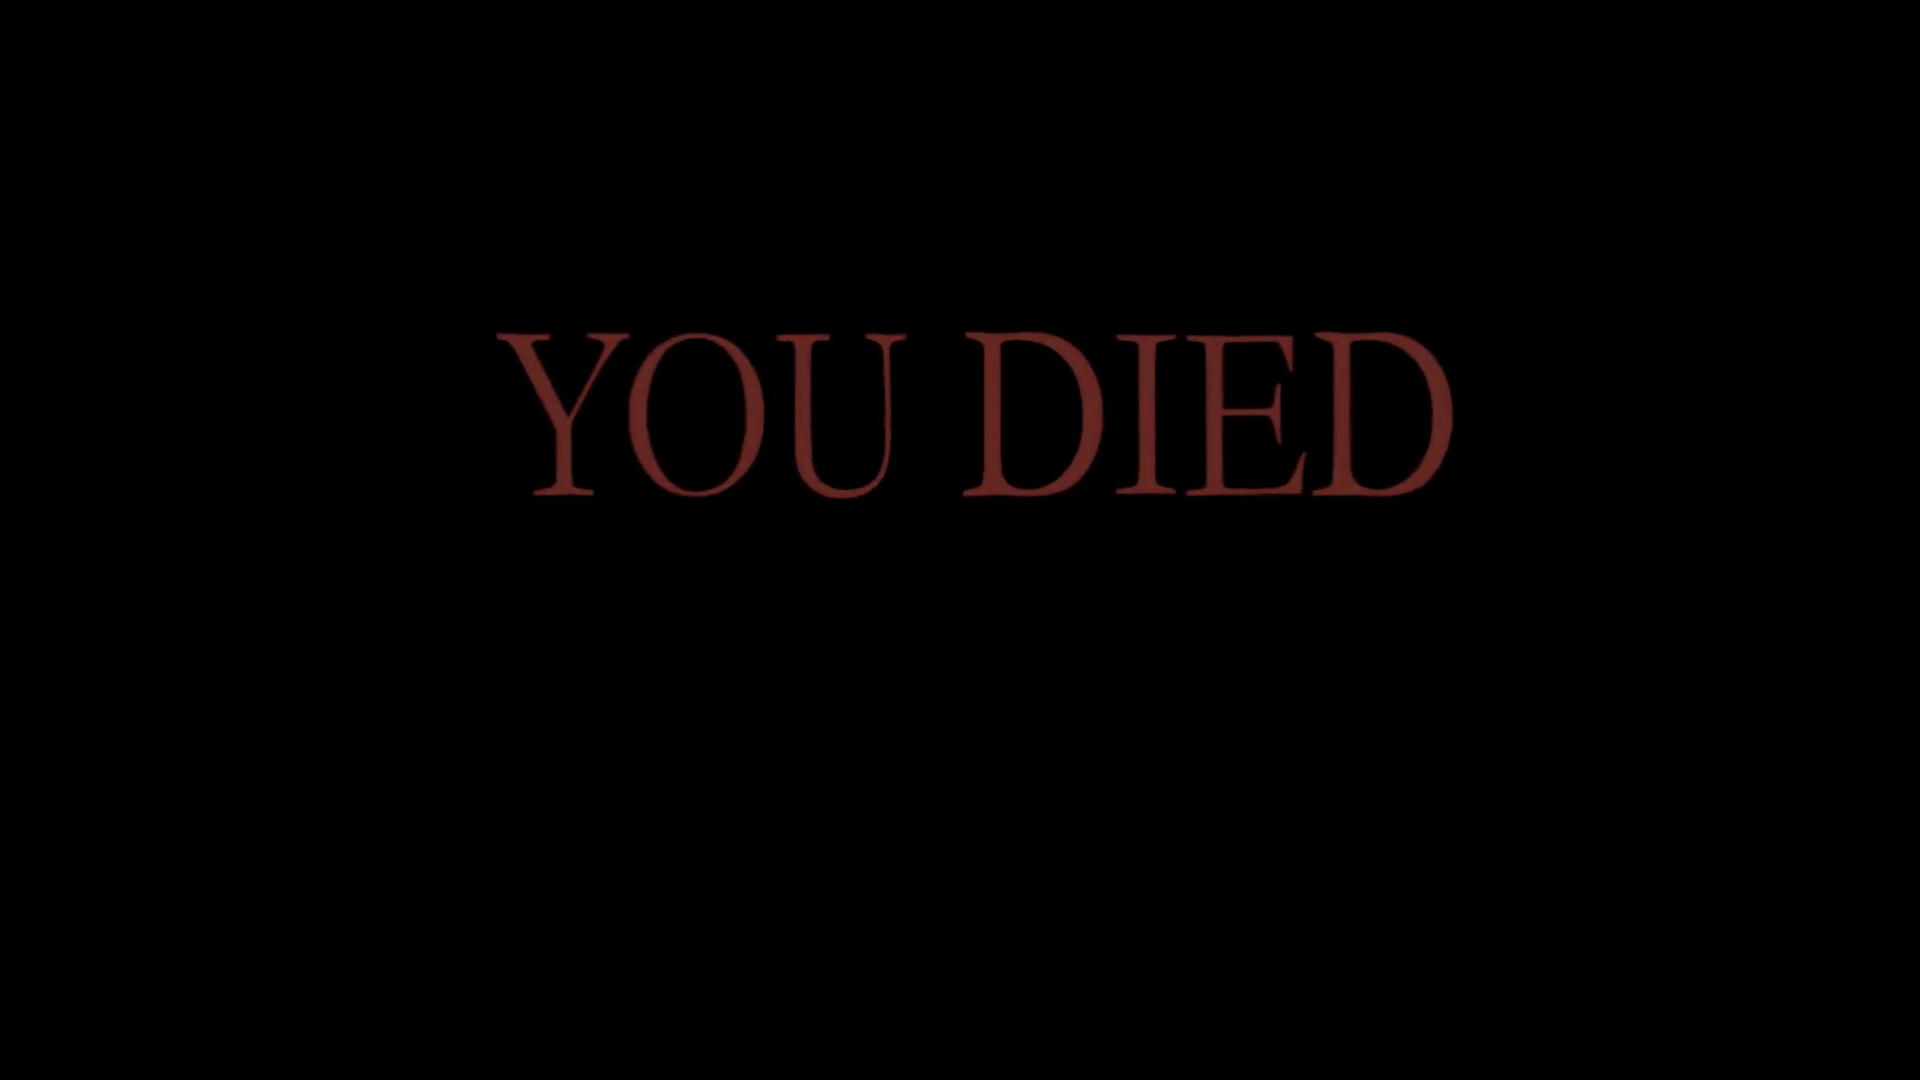
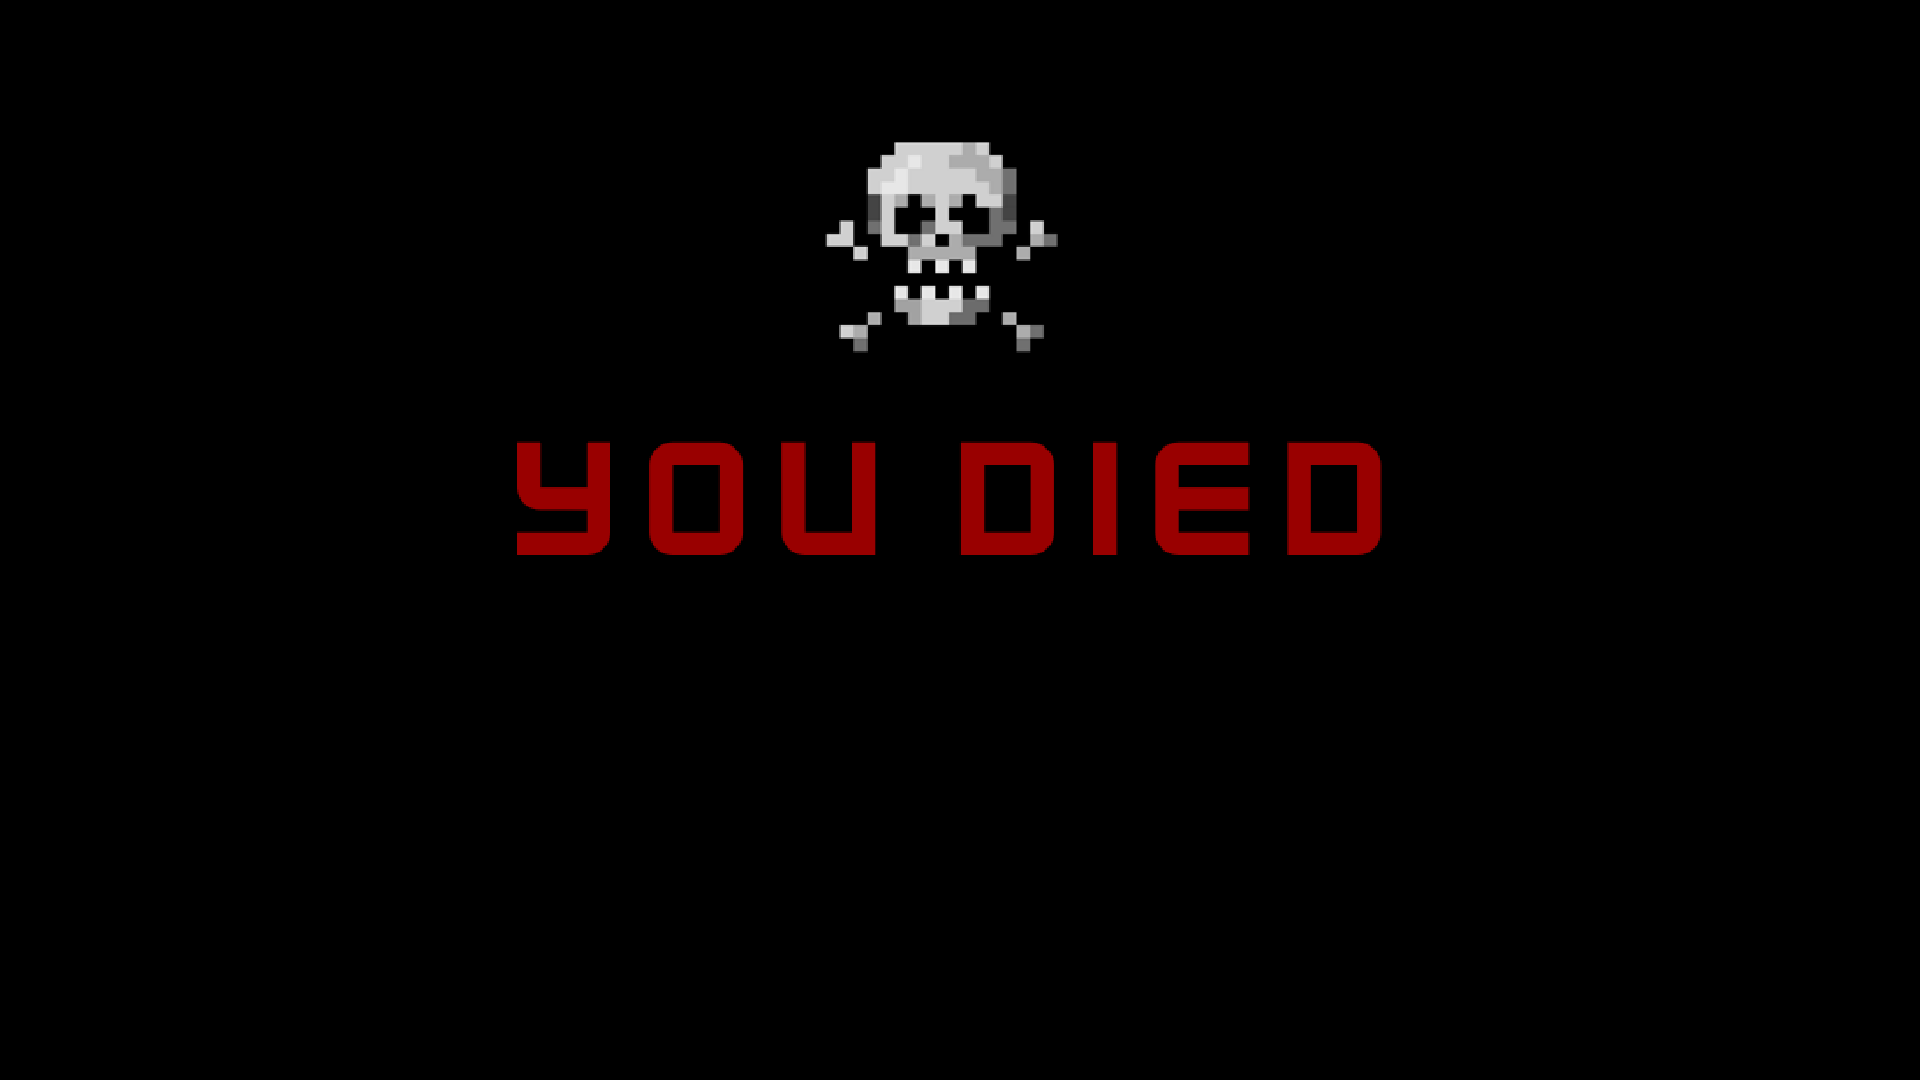
Added javdocs to new player death classes, fixed spelling issues and created new player death screen

Changed region(s): [[0.25, 0.1222, 0.7812, 0.5194]]

diff --git a/source/core/src/main/com/csse3200/game/components/player/DeathScreenDisplay.java b/source/core/src/main/com/csse3200/game/components/player/DeathScreenDisplay.java
@@ -1,7 +1,6 @@
 /**
- * MainMenuDisplay is a UI component responsible for displaying the main menu of the game.
- * It provides buttons for starting the game, loading a saved game, accessing settings,
- * and exiting the game. Additionally, it offers options to access space and extractor mini-games.
+ * DeathScreenDisplay is a UI component responsible for displaying the death screen of the game.
+ * It provides buttons for restarting the game and exiting the game.
  */
 package com.csse3200.game.components.player;
 
@@ -19,9 +18,8 @@ import org.slf4j.Logger;
 import org.slf4j.LoggerFactory;
 
 /**
- * The UI component responsible for rendering and managing the main menu interface.
- * It provides options for starting, loading, configuring settings, and exiting the game.
- * It also includes options to access space and extractor mini-games.
+ * The UI component responsible for rendering and managing the death screen interface.
+ * It provides options for restarting and exiting the game.
  */
 public class DeathScreenDisplay extends UIComponent {
 
@@ -37,7 +35,7 @@ public class DeathScreenDisplay extends UIComponent {
     }
 
     /**
-     * Adds UI elements such as buttons and title to the main menu display.
+     * Adds UI elements such as buttons and title to the death screen display.
      */
     private void addActors() {
         tableImage = new Table();
@@ -52,7 +50,7 @@ public class DeathScreenDisplay extends UIComponent {
         titleImage.setHeight(Gdx.graphics.getHeight());
         titleImage.setPosition(0, 0);
 
-        // Create button for exit options
+        // Create buttons for restart and exit options
         TextButton exitBtn = new TextButton("Exit to Main Menu", skin);
         TextButton restartBtn = new TextButton("Restart Level", skin);
 
@@ -75,7 +73,7 @@ public class DeathScreenDisplay extends UIComponent {
 
         // Arrange UI elements in a table layout
         tableImage.add(titleImage);
-        tableButtons.add(restartBtn).padBottom(100f);
+        tableButtons.add(restartBtn).padBottom(50f);
         tableButtons.row();
         tableButtons.add(exitBtn).padBottom(300f);
 

diff --git a/source/core/src/main/com/csse3200/game/screens/PlayerDeathScreen.java b/source/core/src/main/com/csse3200/game/screens/PlayerDeathScreen.java
@@ -17,10 +17,8 @@ import com.csse3200.game.services.ServiceLocator;
 import org.slf4j.Logger;
 import org.slf4j.LoggerFactory;
 
-import static com.csse3200.game.ui.UIComponent.skin;
-
 /**
- * The game screen containing the main menu.
+ * The game screen indicating a player's death and options to either restart or exit game.
  */
 public class PlayerDeathScreen extends ScreenAdapter {
     public static final Logger logger = LoggerFactory.getLogger(PlayerDeathScreen.class);
@@ -31,7 +29,7 @@ public class PlayerDeathScreen extends ScreenAdapter {
     public PlayerDeathScreen(GdxGame game) {
         this.game = game;
 
-        logger.debug("Initialising main menu screen services");
+        logger.debug("Initialising death screen services");
         ServiceLocator.registerInputService(new InputService());
         ServiceLocator.registerResourceService(new ResourceService());
         ServiceLocator.registerEntityService(new EntityService());
@@ -67,7 +65,7 @@ public class PlayerDeathScreen extends ScreenAdapter {
 
     @Override
     public void dispose() {
-        logger.debug("Disposing main menu screen");
+        logger.debug("Disposing death screen");
 
         renderer.dispose();
         unloadAssets();
@@ -91,7 +89,7 @@ public class PlayerDeathScreen extends ScreenAdapter {
     }
 
     /**
-     * Creates the main menu's ui including components for rendering ui elements to the screen and
+     * Creates the death screen's ui including components for rendering ui elements to the screen and
      * capturing and handling ui input.
      */
     private void createUI() {

diff --git a/source/core/src/main/com/csse3200/game/components/player/PlayerActions.java b/source/core/src/main/com/csse3200/game/components/player/PlayerActions.java
@@ -106,19 +106,19 @@ public class PlayerActions extends Component {
         System.out.println("here");
         switch (i) {
             case 1:
-                entity.getComponent(InventoryComponent.class).setEquiped(1);
+                entity.getComponent(InventoryComponent.class).setEquipped(1);
                 break;
             case 2:
-                entity.getComponent(InventoryComponent.class).setEquiped(2);
+                entity.getComponent(InventoryComponent.class).setEquipped(2);
                 break;
             case 3:
-                entity.getComponent(InventoryComponent.class).setEquiped(3);
+                entity.getComponent(InventoryComponent.class).setEquipped(3);
                 break;
             default:
-                entity.getComponent(InventoryComponent.class).cycleEquiped();
+                entity.getComponent(InventoryComponent.class).cycleEquipped();
                 break;
         }
-        System.out.println(entity.getComponent(InventoryComponent.class).getEquiped());
+        System.out.println(entity.getComponent(InventoryComponent.class).getEquipped());
     }
 
     /**

diff --git a/source/core/src/main/com/csse3200/game/components/player/DeathScreenActions.java b/source/core/src/main/com/csse3200/game/components/player/DeathScreenActions.java
@@ -8,7 +8,7 @@ import org.slf4j.LoggerFactory;
 
 
 /**
- * This class listens to events relevant to the Main Menu Screen and does something when one of the
+ * This class listens to events relevant to the Death Screen and does something when one of the
  * events is triggered.
  */
 public class DeathScreenActions extends Component {
@@ -20,7 +20,9 @@ public class DeathScreenActions extends Component {
         this.game = game;
     }
 
-
+    /**
+     * Overrides create() function to add Listeners.
+     */
     @Override
     public void create() {
         entity.getEvents().addListener("exit", this::onExit);
@@ -34,7 +36,9 @@ public class DeathScreenActions extends Component {
         game.setScreen(GdxGame.ScreenType.MAIN_MENU);
     }
 
-
+    /**
+     * Restarts level by relaunching main game.
+     */
     private void onRestart() {
         logger.info("Relaunching main game screen");
         game.setScreen(GdxGame.ScreenType.MAIN_GAME);

diff --git a/source/core/src/main/com/csse3200/game/components/player/InventoryComponent.java b/source/core/src/main/com/csse3200/game/components/player/InventoryComponent.java
@@ -13,22 +13,22 @@ import org.slf4j.LoggerFactory;
  */
 public class InventoryComponent extends Component {
   private static final Logger logger = LoggerFactory.getLogger(InventoryComponent.class);
-  private int equiped = 1;
+  private int equipped = 1;
 
-  public int getEquiped() {
-    return equiped;
+  public int getEquipped() {
+    return equipped;
   }
 
-  public void setEquiped(int i) {
-    this.equiped = i;
+  public void setEquipped(int i) {
+    this.equipped = i;
   }
 
-  public void cycleEquiped() {
-    int equiped = getEquiped();
+  public void cycleEquipped() {
+    int equiped = getEquipped();
     if (equiped == 3) {
-      this.equiped = 1;
+      this.equipped = 1;
     } else
-      this.equiped++;
+      this.equipped++;
   }
 
 }

diff --git a/source/core/src/main/com/csse3200/game/components/player/KeyboardPlayerInputComponent.java b/source/core/src/main/com/csse3200/game/components/player/KeyboardPlayerInputComponent.java
@@ -410,7 +410,7 @@ public class KeyboardPlayerInputComponent extends InputComponent {
 
   private void triggerInventoryEvent(int i) {
     entity.getEvents().trigger("inventory", i);
-    this.equiped = entity.getComponent(InventoryComponent.class).getEquiped();
+    this.equiped = entity.getComponent(InventoryComponent.class).getEquipped();
   }
 
   /**
